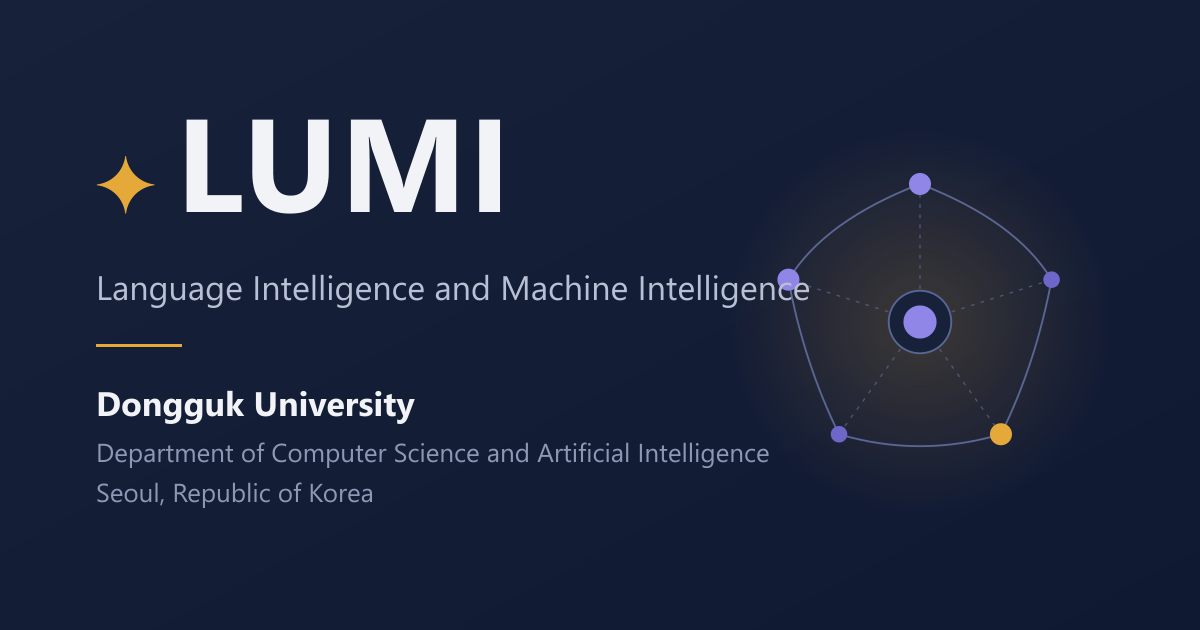
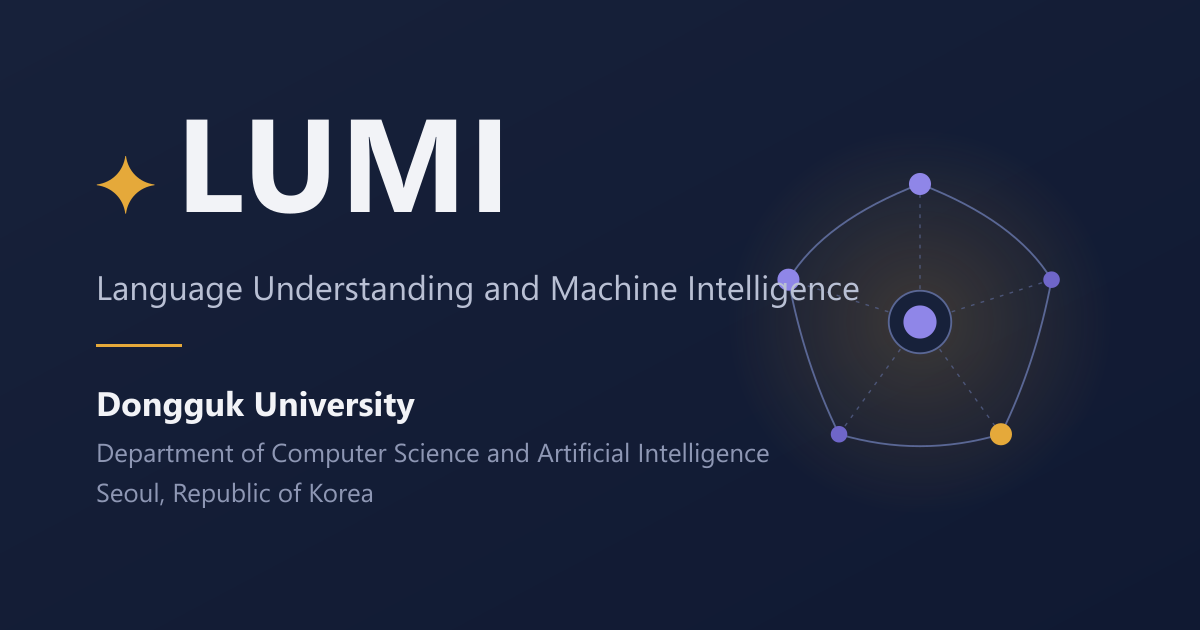
Correct the LUMI expansion to Language Understanding and Machine Intelligence
The previous wording, "Language Intelligence and Machine Intelligence", has the
initials L-I-M-I and so never spelled the acronym. Updated in site.ts, which
feeds the header, footer, hero and metadata, and in the four places the string
was hardcoded: the Open Graph card (PNG regenerated), README, TODO_CONTENT and
the package description.

Changed region(s): [[0.2158, 0.4222, 0.7092, 0.4825]]

diff --git a/src/data/site.ts b/src/data/site.ts
@@ -11,9 +11,9 @@ export const site = {
   /** Wordmark on its own, without the word "Lab". */
   labShortName: 'LUMI',
   /** Official full name. Do not paraphrase or re-expand the acronym. */
-  labFullName: 'Language Intelligence and Machine Intelligence Lab',
+  labFullName: 'Language Understanding and Machine Intelligence Lab',
   /** The acronym expansion, used as a subtitle. */
-  labExpansion: 'Language Intelligence and Machine Intelligence',
+  labExpansion: 'Language Understanding and Machine Intelligence',
 
   institution: 'Dongguk University',
   department: 'Department of Computer Science and Artificial Intelligence',
@@ -34,13 +34,13 @@ export const site = {
 
   /** Screen-reader label for the logo link. */
   srLabel:
-    'LUMI Lab — Language Intelligence and Machine Intelligence Lab at Dongguk University',
+    'LUMI Lab — Language Understanding and Machine Intelligence Lab at Dongguk University',
 
   defaultTitle:
-    'LUMI Lab | Language Intelligence and Machine Intelligence at Dongguk University',
+    'LUMI Lab | Language Understanding and Machine Intelligence at Dongguk University',
   titleTemplate: '%s | LUMI Lab',
   defaultDescription:
-    'LUMI Lab—Language Intelligence and Machine Intelligence—at Dongguk University studies trustworthy language and multimodal models, reliable AI agents, evaluation, instruction following, and feedback.',
+    'LUMI Lab—Language Understanding and Machine Intelligence—at Dongguk University studies trustworthy language and multimodal models, reliable AI agents, evaluation, instruction following, and feedback.',
 
   /** Path (relative to /public) of the Open Graph image. */
   ogImage: '/og/lumi-og.png',

diff --git a/TODO_CONTENT.md b/TODO_CONTENT.md
@@ -30,7 +30,7 @@
 ## Notes
 
 - The lab's official full name is settled and needs no confirmation:
-  **Language Intelligence and Machine Intelligence Lab**.
+  **Language Understanding and Machine Intelligence Lab**.
 - Nothing on the site states an unverified fact. Every optional link, button
   and section is hidden until its content exists, so shipping before the items
   above are resolved is safe — the page simply does not mention them.

diff --git a/README.md b/README.md
@@ -1,6 +1,6 @@
 # LUMI Lab website
 
-Official website of **LUMI Lab — Language Intelligence and Machine Intelligence
+Official website of **LUMI Lab — Language Understanding and Machine Intelligence
 Lab**, Department of Computer Science and Artificial Intelligence, Dongguk
 University.
 
